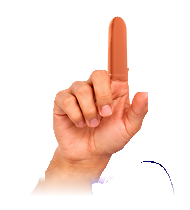
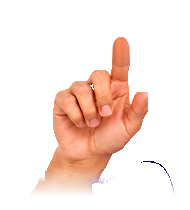
Email: animated GIF hero; natural index finger in the animation
Claude-Session: https://claude.ai/code/session_01RrgPSv5FZEd99BayXaAJSG

Changed region(s): [[0.5526, 0.0571, 0.6842, 0.3714], [0.4737, 0.4, 0.5, 0.4286]]

diff --git a/email/index.html b/email/index.html
@@ -56,11 +56,11 @@
 <!--[if mso]><table role="presentation" width="600" cellpadding="0" cellspacing="0" border="0" align="center"><tr><td><![endif]-->
 <table role="presentation" class="container" width="600" cellpadding="0" cellspacing="0" border="0" bgcolor="#ffffff" style="width:600px;max-width:600px;background-color:#ffffff;">
 
-  <!-- ===== HERO (logo, headline, illustration, Explore button) ===== -->
+  <!-- ===== HERO: animated GIF (logo, headline, orbiting feature cards, Explore button). Outlook on Windows shows its first frame, the still hero. ===== -->
   <tr>
     <td align="center" style="padding:0;font-size:0;line-height:0;">
       <a href="https://www.intellicamp.in/?utm_source=email&amp;utm_medium=email&amp;utm_campaign=launch&amp;utm_content=hero" target="_blank" style="display:block;">
-        <img src="https://raw.githubusercontent.com/tbsdeveloper04-ui/Intellicamp/main/email/hero.jpg" width="600" alt="Intellicamp. Smarter Learning, Stronger Results. Explore Intellicamp.in" class="fluid" style="display:block;width:600px;max-width:100%;height:auto;border:0;background-color:#5b6ef5;color:#ffffff;font-family:Arial,sans-serif;font-size:22px;line-height:30px;text-align:center;">
+        <img src="https://raw.githubusercontent.com/tbsdeveloper04-ui/Intellicamp/main/email/hero-orbit.gif" width="600" height="632" alt="Intellicamp. Smarter Learning, Stronger Results. Six AI features orbit a student: Smart Study Material, AI Paper Generation, Instant AI Exam, Exam Insights, Progress Analytics and Performance Tracking. Explore Intellicamp.in" class="fluid" style="display:block;width:600px;max-width:100%;height:auto;border:0;outline:none;background-color:#6f86f6;color:#ffffff;font-family:Arial,sans-serif;font-size:20px;line-height:28px;text-align:center;">
       </a>
     </td>
   </tr>
